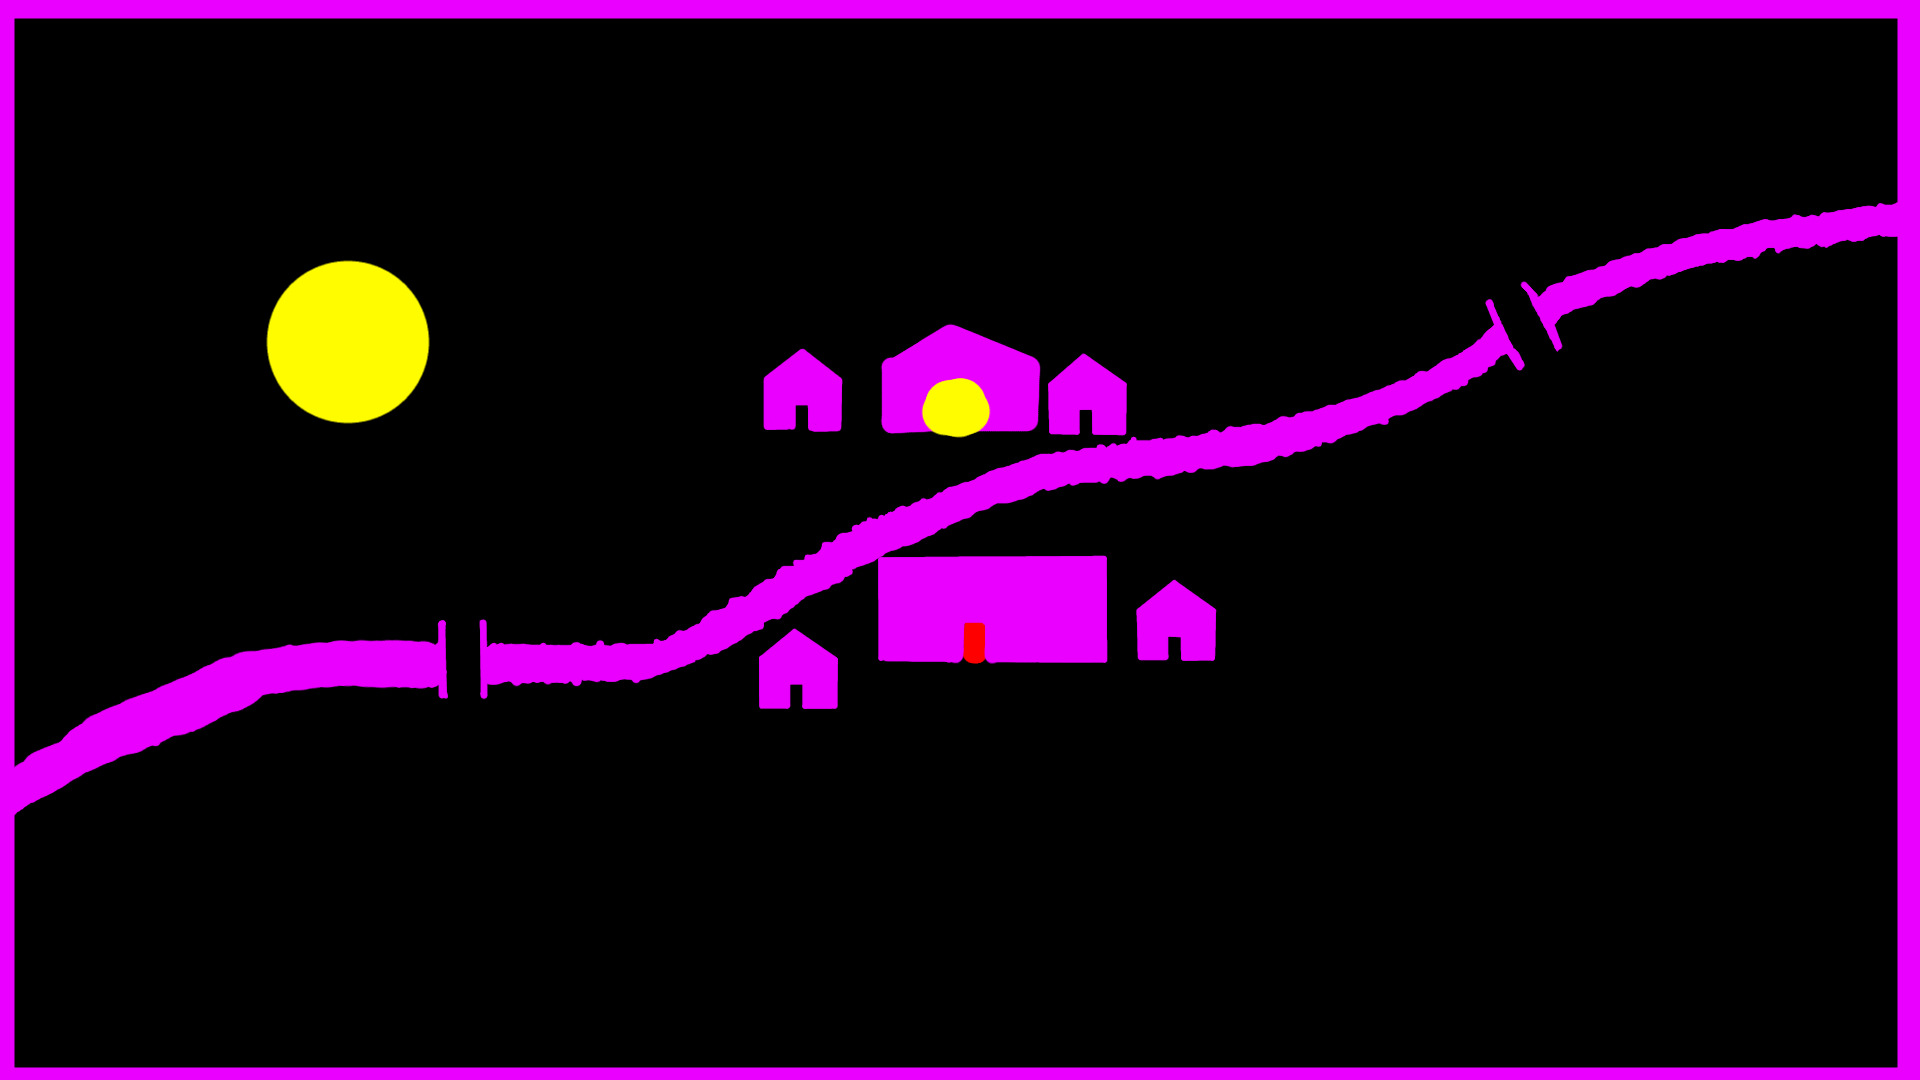
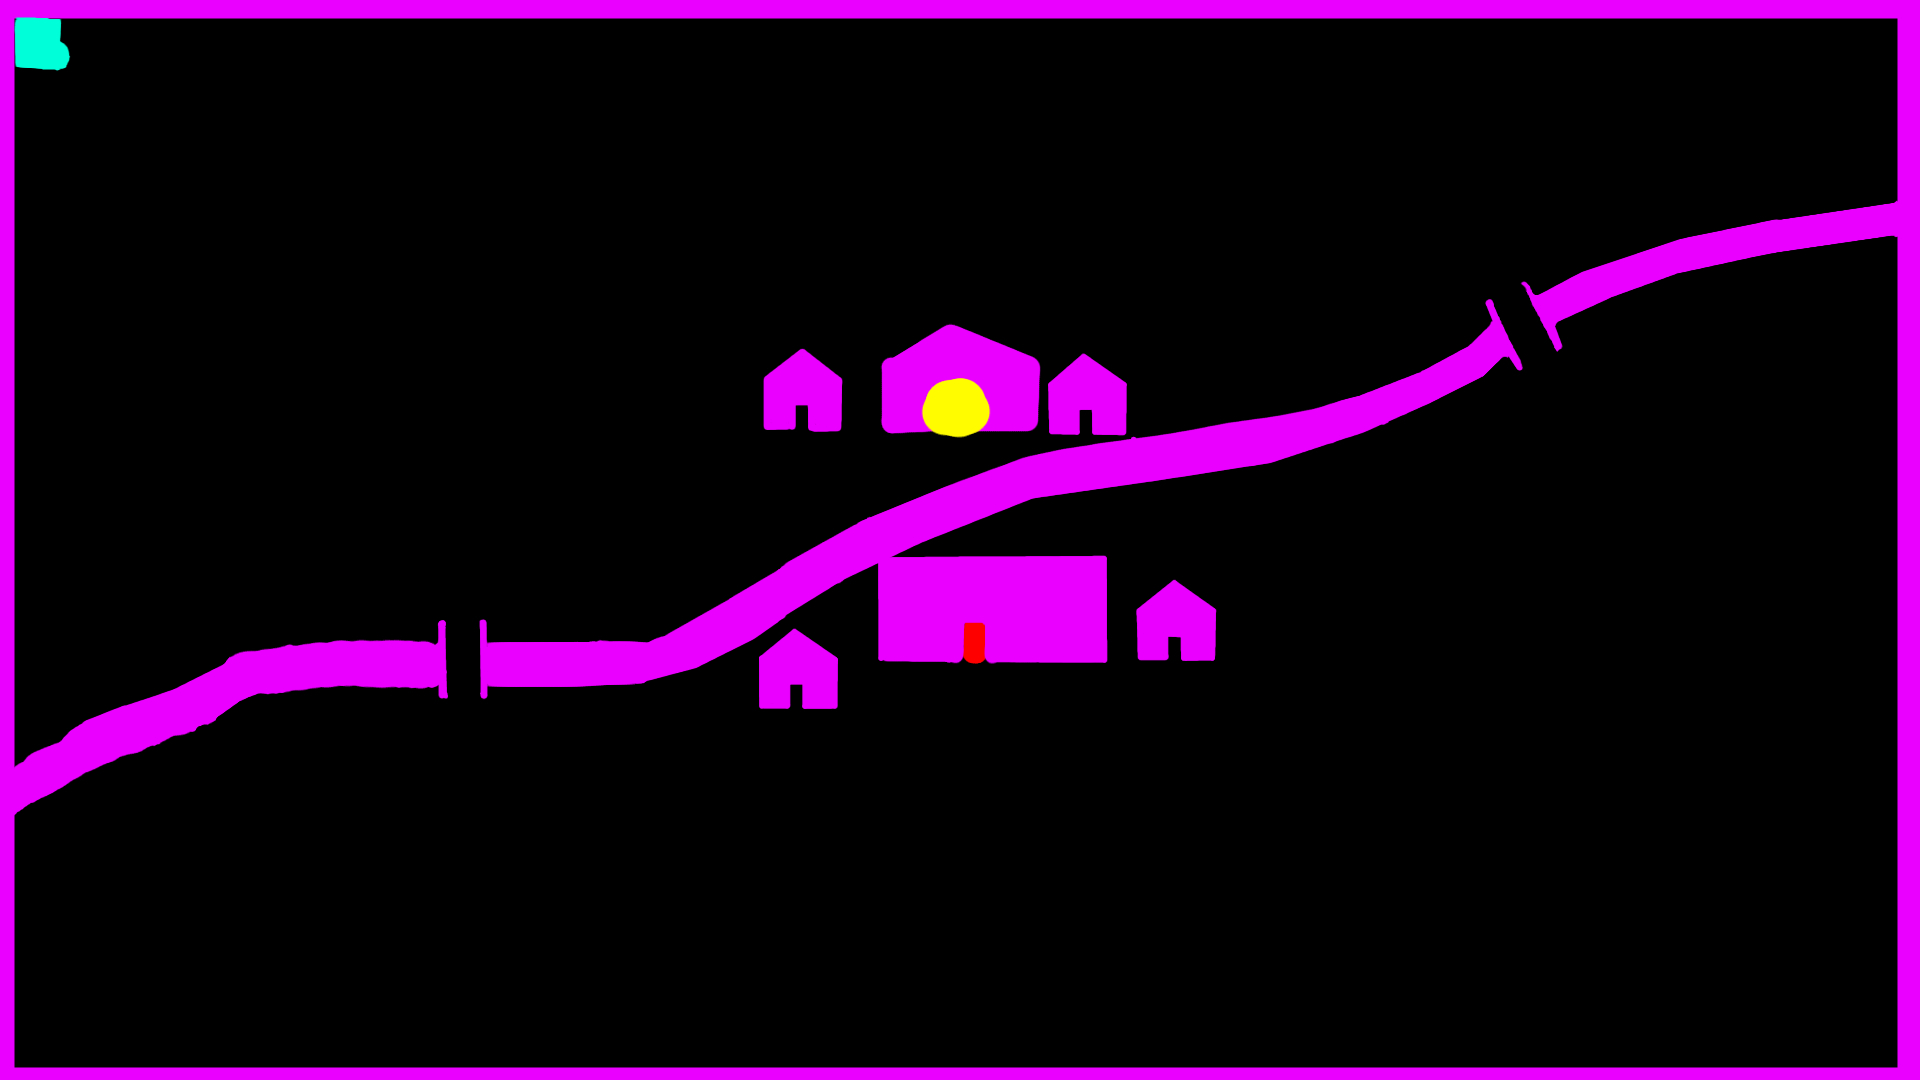
NEW MAP

diff --git a/JS/main.js b/JS/main.js
@@ -2,7 +2,7 @@ var R = 1; //RADIUS OF PLAYER TEST CIRCLE
 
 var colortest = '#FF0000'
 var playerX = 915;
-var playerY = 525;
+var playerY = 300;
 var playerXorigin = 915;
 var playerYorigin = 445;
 var directionRight;
@@ -32,6 +32,7 @@ var c;
 var ctx;
 var CanHeight;
 var CanWidth;
+var mapOpacity = 1;
 
 var cTwo;
 var ctxTwo;
@@ -114,6 +115,14 @@ function ImageLoaded() // Test to see if all images are loaded. (You might put a
         area1and1Image = new Image();
         area1and1Image.src = "img/Area-1.1-store.jpg";
         console.log(area1and1Image);
+
+        area2CollisionImage = new Image();
+        area2CollisionImage.src = "img/Area-2_collision.jpg";
+        console.log(area2CollisionImage);
+        
+        area2Image = new Image();
+        area2Image.src = "img/Area-2.jpg";
+        console.log(area2Image);
 
         area1and1CollisionImage = new Image();
         area1and1CollisionImage.src = "img/Area-1.1-store_collision.jpg";
@@ -231,6 +240,7 @@ function loadArea(newArea) {
     if (newArea == 1) {
         mycollisionmapImage = image2;
         mymapImage = image;
+        currentArea = 1;
 
     } else if (newArea == 1.1) {
         mycollisionmapImage = area1and1CollisionImage;
@@ -238,6 +248,16 @@ function loadArea(newArea) {
         mymapImage = area1and1Image;
         playerX = 905;
         playerY = 950;
+        currentArea = 1.1;
+
+    }
+    else if (newArea == 2) {
+        mycollisionmapImage = area2CollisionImage;
+        //mycollisionmapImage = testCollisionImage;
+        mymapImage = area2Image;
+        currentArea = 2;
+        playerX = 1795;
+        playerY = 1015;
 
     }
 
@@ -291,6 +311,15 @@ function warp(lastpositionarea) {
         }
 
     }
+    
+        if (currentZone == 2) {
+            if (lastpositionarea == 1)
+                {
+                    console.log("Last area was area-1");
+                }
+            
+
+    }
 }
 
 var currentArea = 1;
@@ -301,6 +330,7 @@ function checkMapColorValue() {
     ///--------------------------
     ///Area-1: main area         
     ///Area-1.1: main area - store
+    ///Area-2: main area 2
 
     if (currentArea == 1) {
         //Store Door
@@ -312,6 +342,18 @@ function checkMapColorValue() {
 
             currentArea = 1.1;
             loadArea(1.1);
+
+        }
+
+        //Tunnel to 2nd area
+        if (inRange(getPixel('./bg.png', playerX, playerY, "red"), 0, 5) &&
+            inRange(getPixel('./bg.png', playerX, playerY, "green"), 130, 141) &&
+            inRange(getPixel('./bg.png', playerX, playerY, "blue"), 110, 120) && playerCollisions == true) {
+
+            console.log("------LOADING area 2------");
+
+            currentArea = 2;
+            loadArea(2);
 
         }
     }
@@ -343,6 +385,26 @@ function checkMapColorValue() {
 
     }
 
+    if (currentArea == 2) {
+
+        //Area 2 Tunnel to Area-1
+        if (inRange(getPixel('./bg.png', playerX, playerY, "red"), 39, 46) &&
+            inRange(getPixel('./bg.png', playerX, playerY, "green"), 91, 99) &&
+            inRange(getPixel('./bg.png', playerX, playerY, "blue"), 45, 54) && playerCollisions == true) {
+
+            console.log("------LOADING area 1------");
+
+            currentArea = 1;
+            loadArea(1);
+            warp(1.3);
+
+        }
+
+
+
+
+    }
+
 
 
 }
@@ -360,7 +422,7 @@ function drawPlayer() {
     ctx = c.getContext("2d");
     ctx.clearRect(0, 0, c.width, c.height);
     ctx.drawImage(mymapImage, 0, 0, c.width, c.height);
-    ctx.globalAlpha = 1;
+    ctx.globalAlpha = mapOpacity;
 
 
     ctxTwo = cTwo.getContext("2d");
